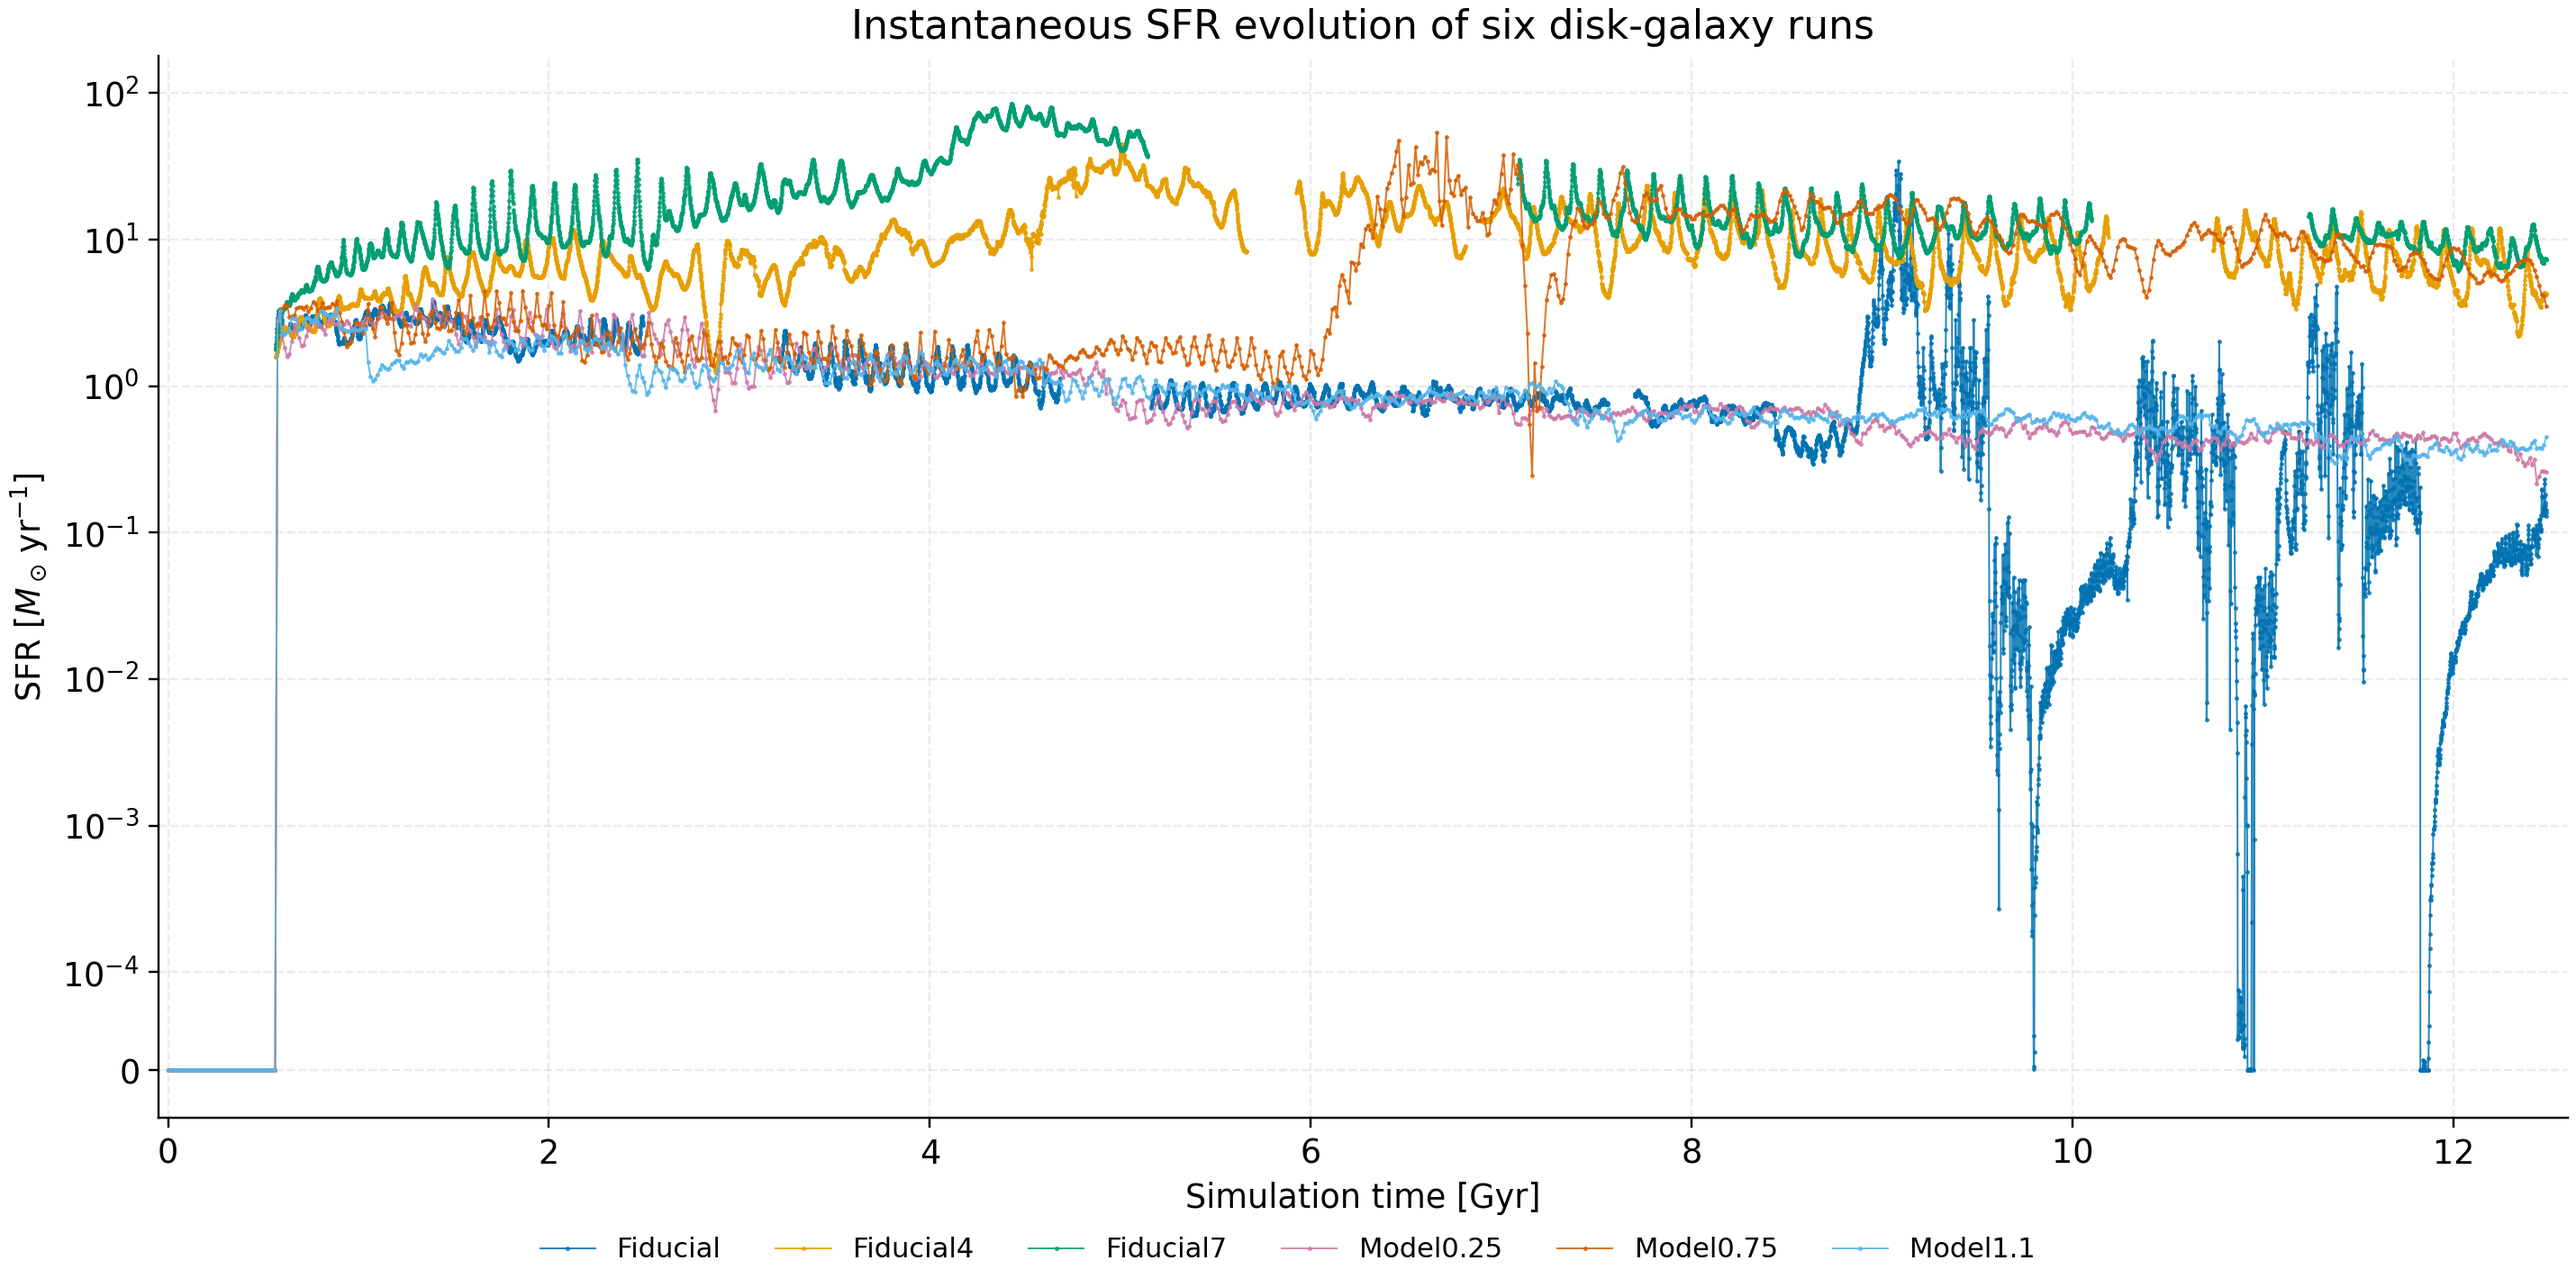
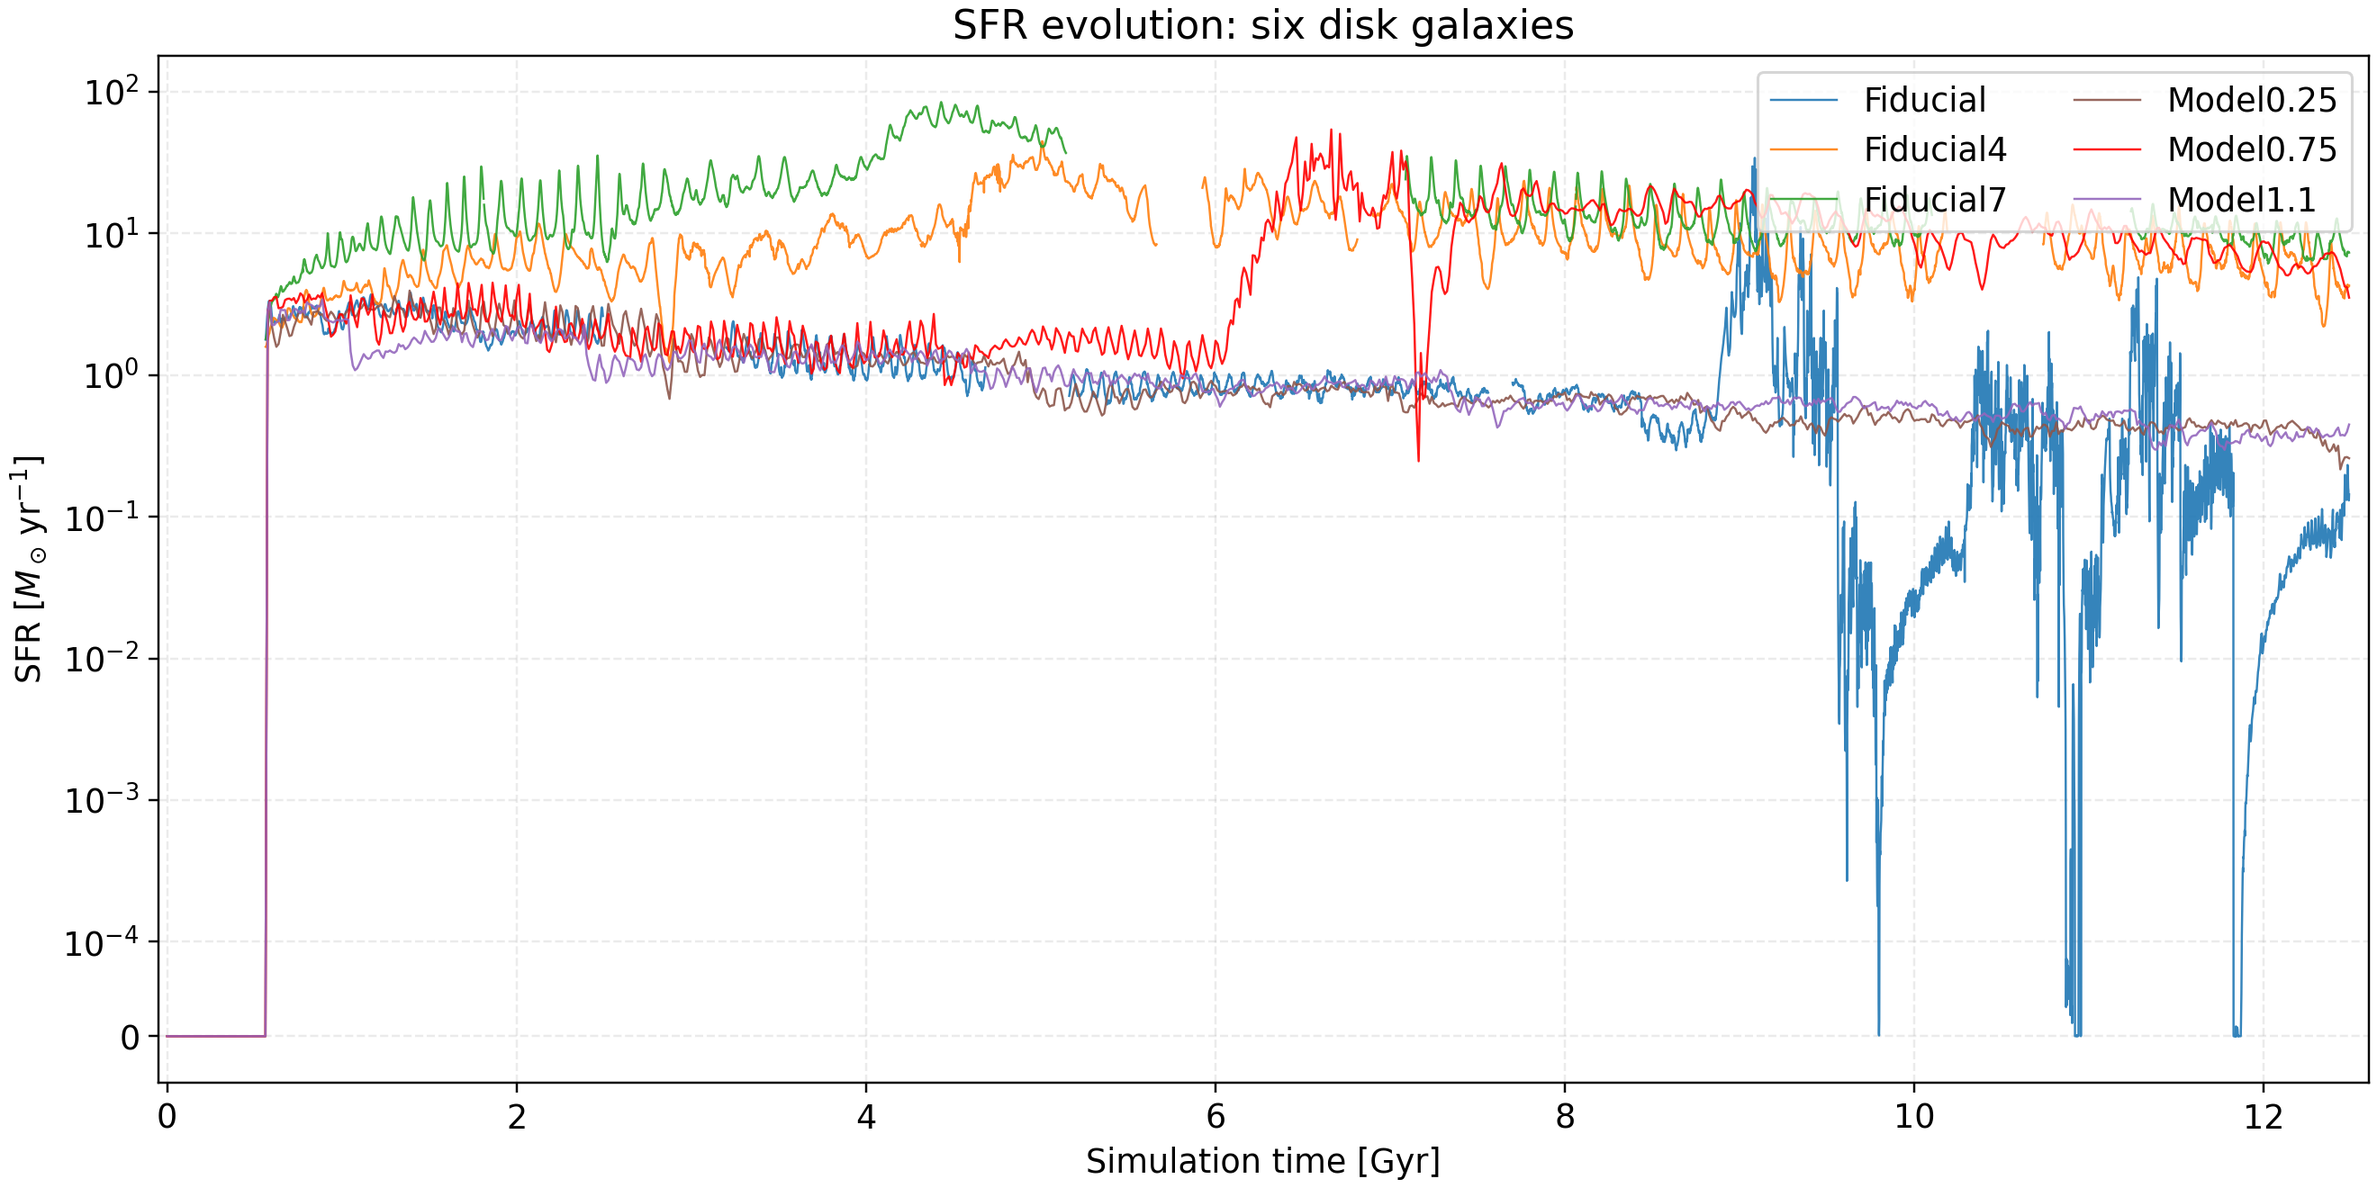
Match SFR comparison reference style with solid lines and no markers

diff --git a/VisualScripts/DataAnalysis/plot_disk_sfr_comparison.py b/VisualScripts/DataAnalysis/plot_disk_sfr_comparison.py
@@ -132,9 +132,9 @@ def load_sfr(configs):
 
 def plot_comparison(frame):
     """保留零 SFR，并在缺帧或初始化至正式运行的时间跳跃处断线。"""
-    plt.rcParams.update({'font.size': 12, 'axes.spines.top': False, 'axes.spines.right': False})
-    fig, axis = plt.subplots(figsize=(13, 6.5), layout='constrained')
-    colors = ('#0072B2', '#E69F00', '#009E73', '#CC79A7', '#D55E00', '#56B4E9')
+    plt.rcParams.update({'font.size': 12, 'axes.spines.top': True, 'axes.spines.right': True})
+    fig, axis = plt.subplots(figsize=(12, 6), layout='constrained')
+    colors = ('#1f77b4', '#ff7f0e', '#2ca02c', '#8c564b', '#ff0000', '#9467bd')
     for label, color in zip(LABELS.values(), colors):
         group = frame.loc[frame.label.eq(label)].sort_values('time_gyr')
         x, y = [], []
@@ -146,14 +146,13 @@ def plot_comparison(frame):
             x.append(row.time_gyr)
             y.append(row.sfr_msun_per_yr)
             previous = row.time_gyr
-        axis.plot(x, y, color=color, lw=0.65, alpha=0.85, label=label,
-                  marker='.', markersize=1.2, rasterized=True)
+        axis.plot(x, y, color=color, lw=0.8, alpha=0.9, label=label,
+                  linestyle='-', marker='None')
     axis.set_yscale('symlog', linthresh=1e-4, linscale=0.6)
     axis.set(xlabel='Simulation time [Gyr]', ylabel=r'SFR [$M_\odot\,\mathrm{yr}^{-1}$]',
-             title='Instantaneous SFR evolution of six disk-galaxy runs', xlim=(-0.05, 12.6))
+             title='SFR evolution: six disk galaxies', xlim=(-0.05, 12.6))
     axis.grid(True, which='major', ls='--', alpha=0.25)
-    fig.legend(*axis.get_legend_handles_labels(), ncol=6, loc='outside lower center',
-               fontsize=10, frameon=False)
+    axis.legend(ncol=2, loc='upper right', framealpha=0.8)
     return fig
 
 

diff --git a/VisualScripts/DataAnalysis/plot_disk_sfr_comparison.md b/VisualScripts/DataAnalysis/plot_disk_sfr_comparison.md
@@ -20,6 +20,8 @@ Model0.25 尚未登记在当前 RawDataConfig 中。本脚本仅为绘图使用
 `symlog(linthresh=1e-4)`，保留零值；不平滑、不插值，超过正常 cadence
 1.5 倍的时间间隔断线。Fiducial 组与 Model 组原始采样间隔不同，比较高频
 起伏时应注意该差异。图表示模拟存储的全网格瞬时 SFR，不是累计恒星质量。
+样式参考用户提供的 sSFR 图：仅显示细实线、不显示点标记，保留完整坐标边框、
+浅色虚线网格和右上角双列图例；纵轴仍为本任务的 SFR。Model0.25 使用棕色。
 
 ```powershell
 $env:MPLBACKEND = 'Agg'
